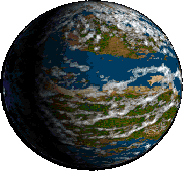
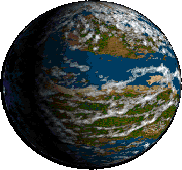
Replace base sprites with own extracted copies.
The previous copies were downloaded from WCPedia and appear to exhibit pixel duplication at the quadrant boundary seams.

diff --git a/README.md b/README.md
@@ -126,6 +126,36 @@ data, not a recreation:
 - `JUMP.PAK` contains two such 42-frame tables — 320×70 and 320×60 — stacked
   to build each full frame, then encoded as WebP (80ms/frame).
 
+### Base sprite images
+
+The station/base icons in `public/assets/bases/` are likewise decoded
+directly from the game archives:
+
+- Source: `DATA\APPEARNC\*.IFF` in `PRIV.TRE`/`RF.TRE` (eg `PERRY.IFF`,
+  `ROIDBASE.IFF`), wrapping the same RLE codec as `JUMP.PAK` in an EA-IFF-85
+  container: `FORM APPR` > `FORM BMAP` > `INFO` (frame count) + `SHAP` (frame
+  table + RLE frames).
+- Each RLE record's `x, y` are **signed**, relative to the frame's own
+  bounding-box origin — canvas position is `(X1+x, Y1+y)`, not `(x, y)`
+  directly.
+- A sprite's multiple 'frames' aren't always independent alternate images.
+  Several base sprites split one picture across differently-directioned
+  frames that share a common origin — eg Perry's dome and docking module are
+  each one quadrant of the full station, meant to be composited on to a
+  single shared canvas, not treated as 4 alternate views.
+- Palette index 0 isn't a reliable transparency sentinel. Some sprites (eg
+  `ROIDBASE.IFF`) explicitly draw with index 0 for genuine near-black detail
+  — rivets, cable shadow — indistinguishable from 'never drawn' by value
+  alone; a separate per-pixel 'was this drawn' mask, not the palette value,
+  decides what's opaque.
+- `OXFORD.IFF` and `PLEASURE.IFF` are distinct-but-near-identical station
+  skins (not a literal copy — a few hundred bytes apart), which is why
+  `oxford` maps to the `pleasure` icon in `baseTypes.js`. There's no separate
+  `GAEA.IFF` at all — `gaea` reusing the `agricultural` icon reflects the
+  original game data, not a short-cut taken by this project. Oxford's sprite
+  also bakes in a vertical band of duplicated pixels down its middle; that's
+  present in the original asset itself, not a decoding artefact.
+
 ### Rendering: live projection, not a separate layout
 
 `gemini.json` stores only the real extracted co-ordinates — no separate,
